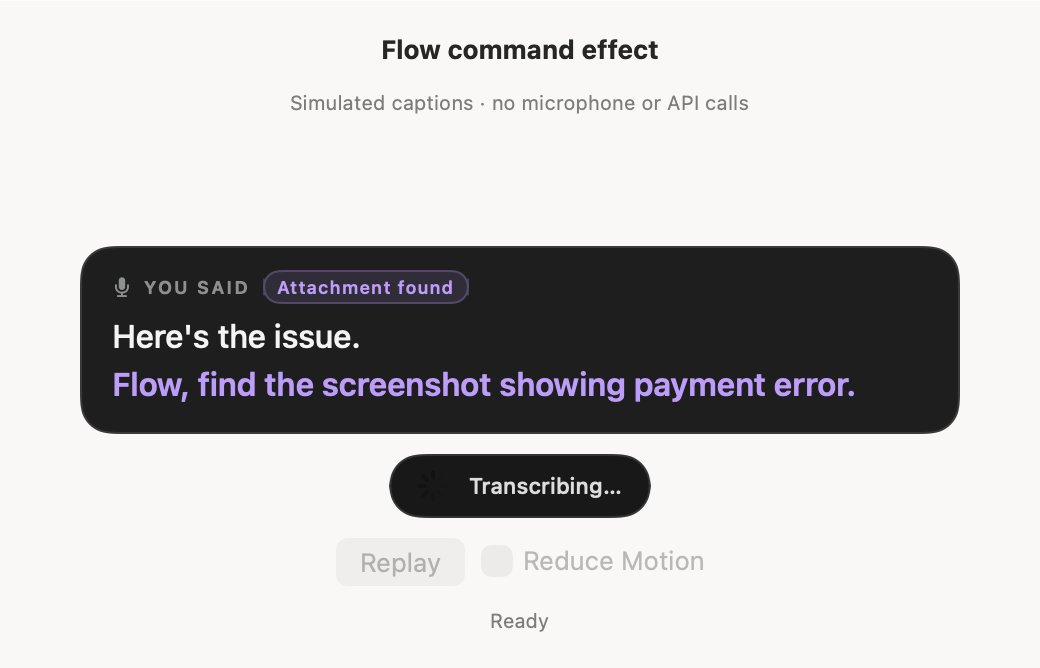
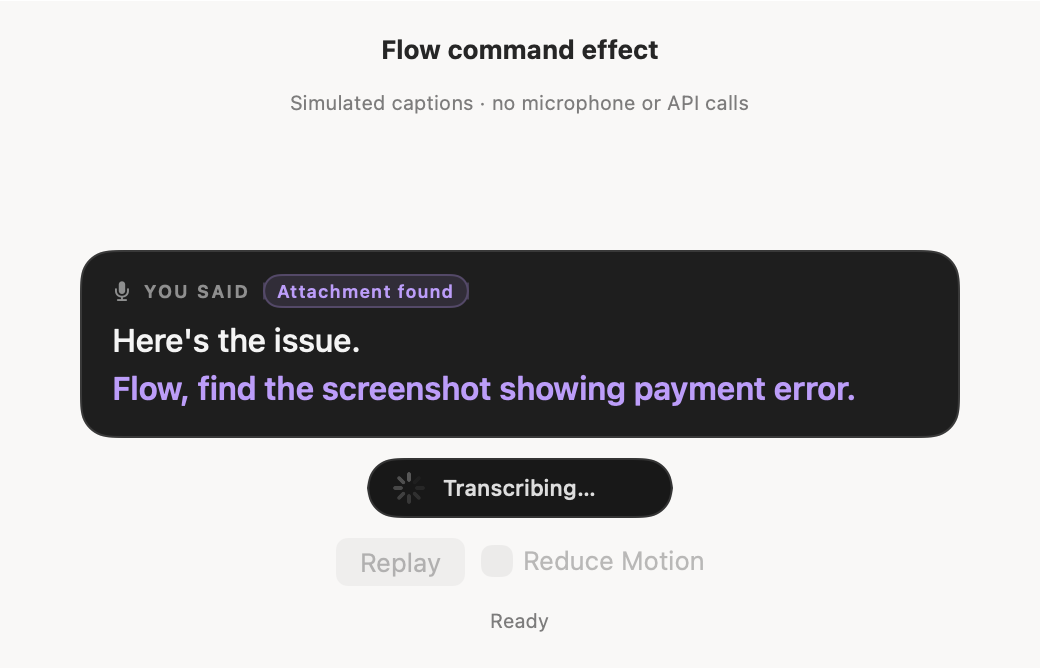
Center the processing label and improve spinner contrast in the recording pill

Changed region(s): [[0.0615, 0.3593, 0.9231, 0.7784], [0.4308, 0.7186, 0.5846, 0.7485], [0.5846, 0.6886, 0.6462, 0.7784]]

diff --git a/Sources/FlowApp/RecordingIndicatorWindow.swift b/Sources/FlowApp/RecordingIndicatorWindow.swift
@@ -19,6 +19,7 @@ final class RecordingIndicatorWindow {
         let hosting = NSHostingController(rootView: view)
 
         let panel = NSPanel(contentViewController: hosting)
+        panel.title = "Flow · Recording"
         panel.styleMask = [.borderless, .nonactivatingPanel]
         panel.isFloatingPanel = true
         panel.level = .statusBar
@@ -104,6 +105,8 @@ struct RecordingIndicatorView: View {
                         .progressViewStyle(.circular)
                         .controlSize(.small)
                         .tint(.white)
+                        .environment(\.colorScheme, .dark)
+                        .frame(width: 14, height: 14)
                 } else if appState.isRecording {
                     Circle().fill(FW.recording).frame(width: 7, height: 7)
                 }
@@ -117,6 +120,9 @@ struct RecordingIndicatorView: View {
                     Text(String(format: "%d:%02d", appState.recordingDuration / 60000, appState.recordingDuration / 1000 % 60))
                         .font(.system(size: 10, design: .monospaced))
                         .foregroundStyle(.white.opacity(0.45))
+                } else if appState.isProcessing || appState.isInitializingModel {
+                    // Balance the spinner's width so the label itself is centered.
+                    Color.clear.frame(width: 14, height: 14).accessibilityHidden(true)
                 }
             }
             .padding(.horizontal, 14)

diff --git a/docs/attachment-resume.md b/docs/attachment-resume.md
@@ -301,3 +301,13 @@ visually reviewed, and pixel comparison confirmed both brighter glyphs and the
 restored halo. White recipient-glyph pixels stayed unchanged within a two-level
 RGB tolerance; the halo intentionally changes surrounding background pixels.
 The refreshed Replay preview remains open.
+
+## Centered processing pill (October 18)
+
+The user approved the effect and requested it in the full demo, plus a centered
+Transcribing label. The production recording pill now balances the leading
+14-point spinner with an equal trailing slot, centering the label itself. The
+spinner uses a dark appearance so it is visible against the pill in light-mode
+previews too. The build and eight local native preview checks passed, and the
+updated processing pill was visually reviewed. The same native recording view
+already drives the Messages demo and production recording indicator.
